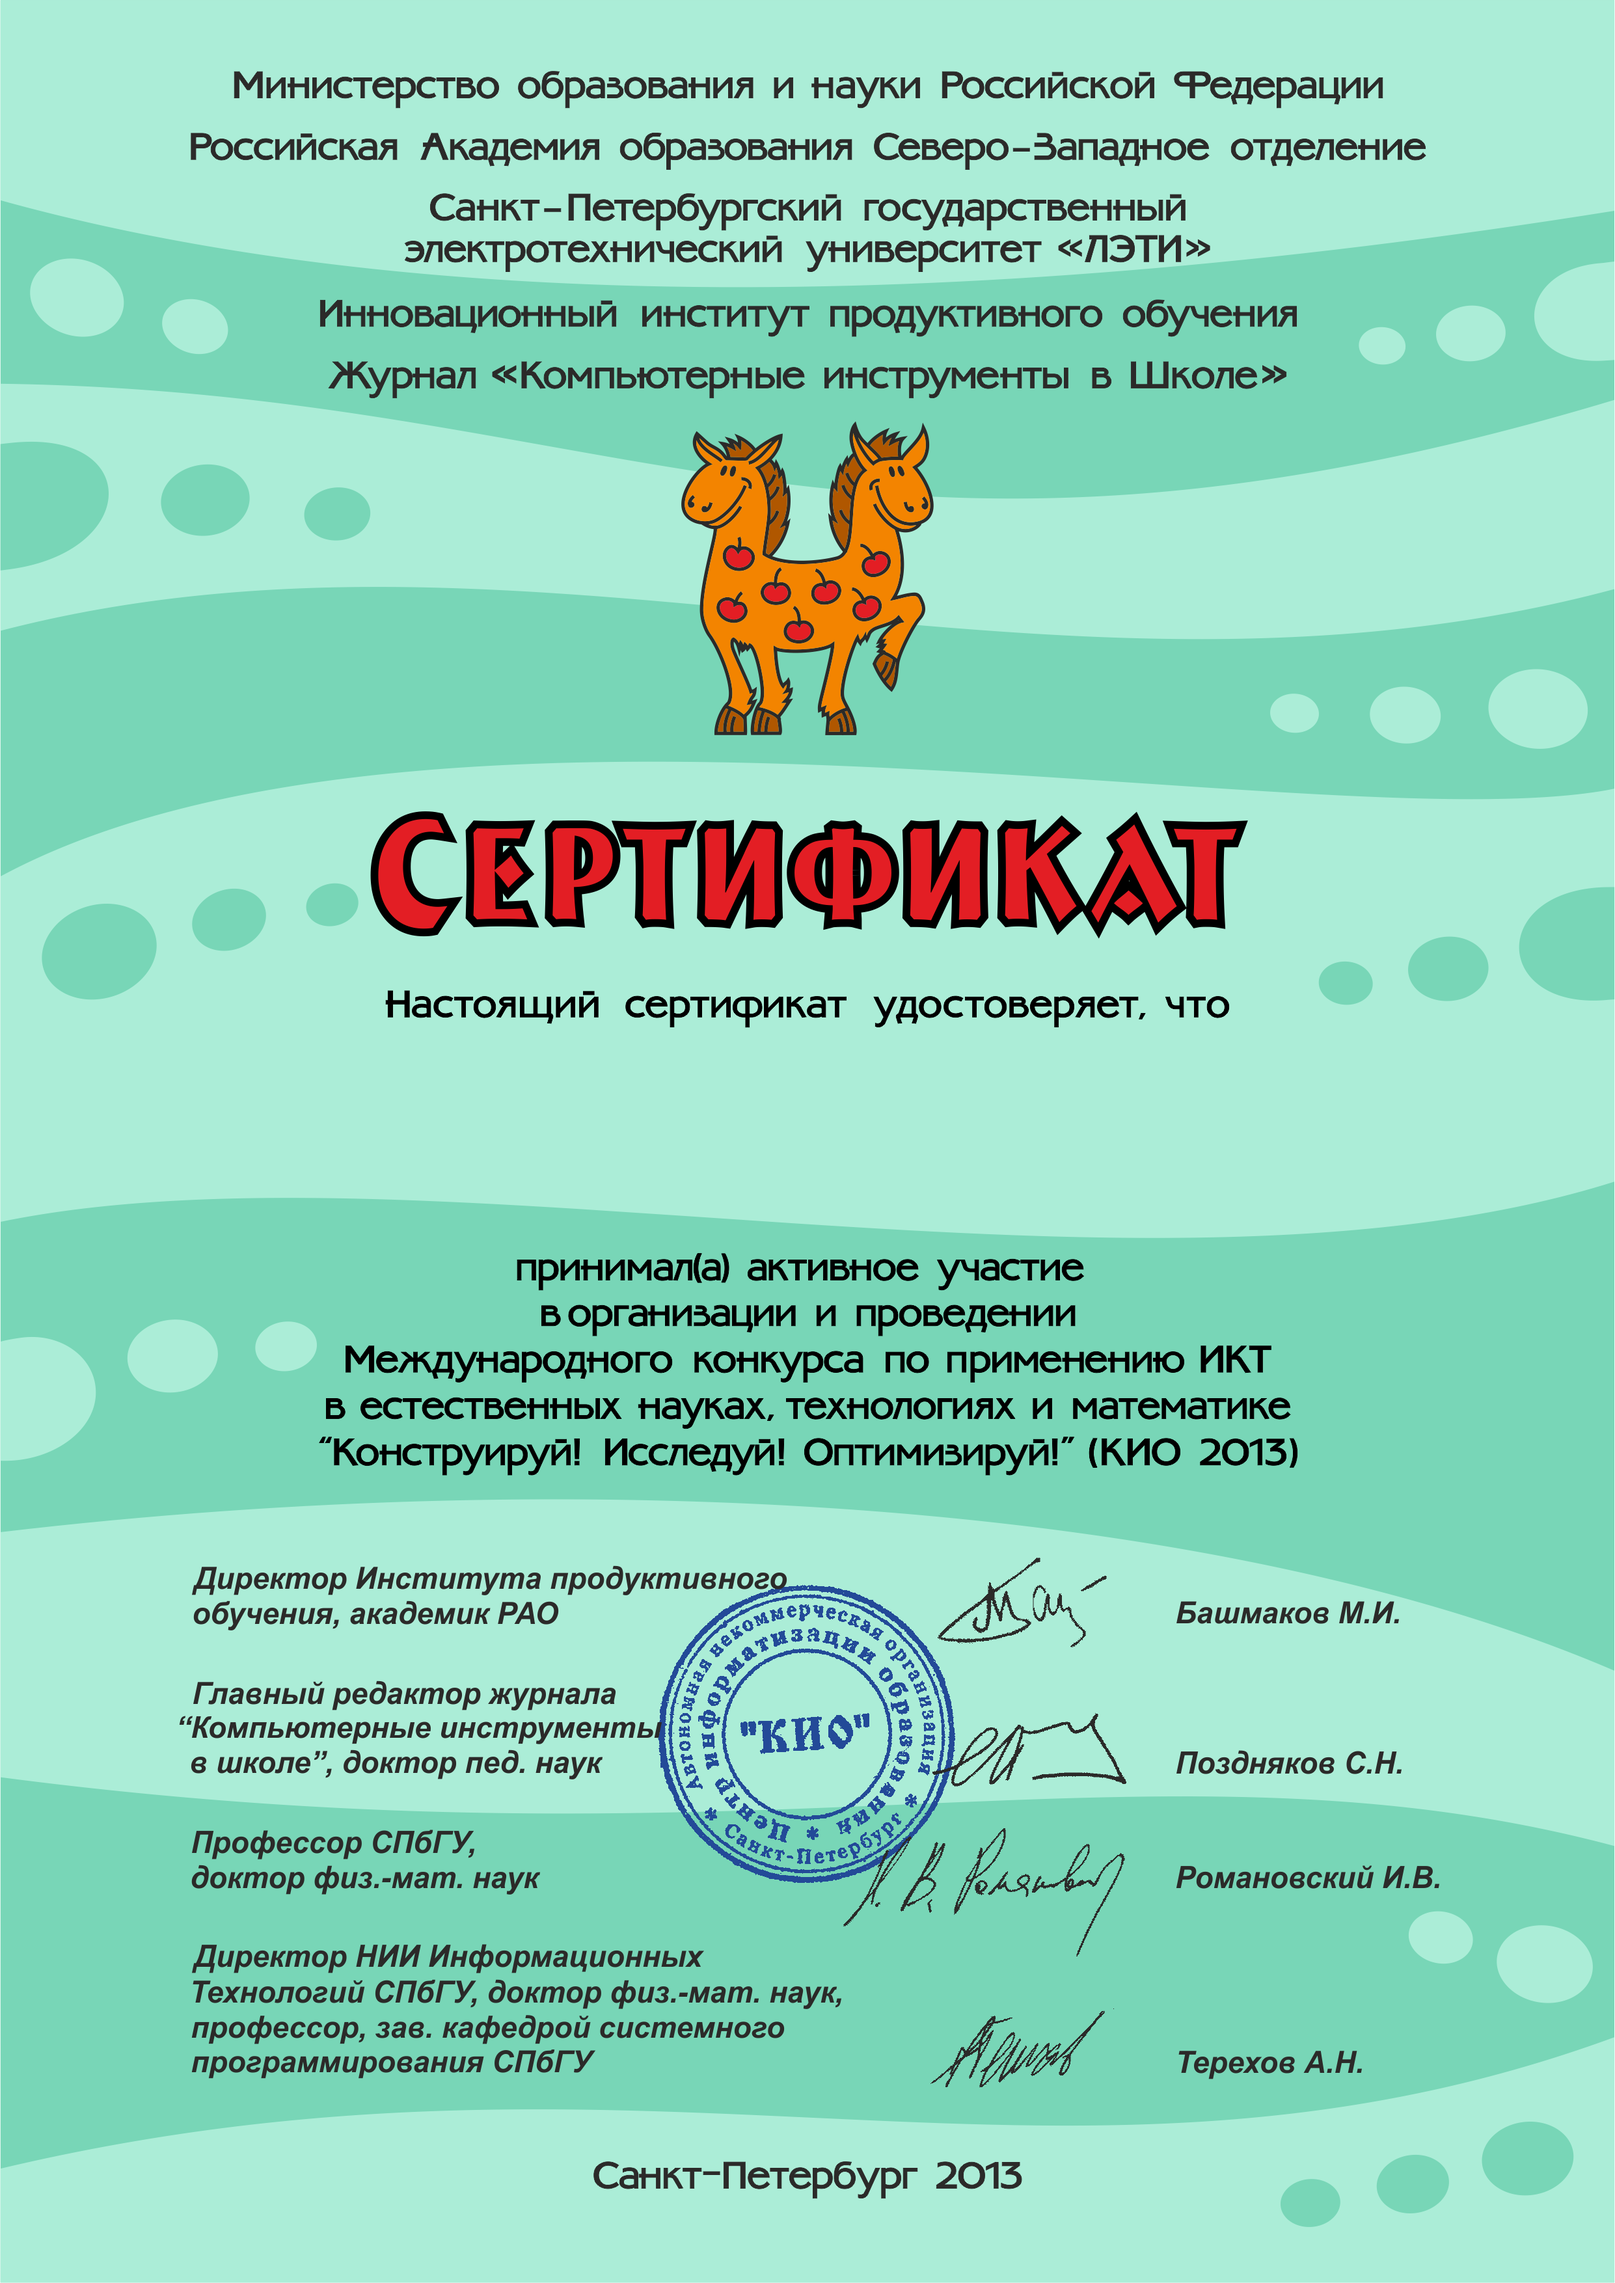
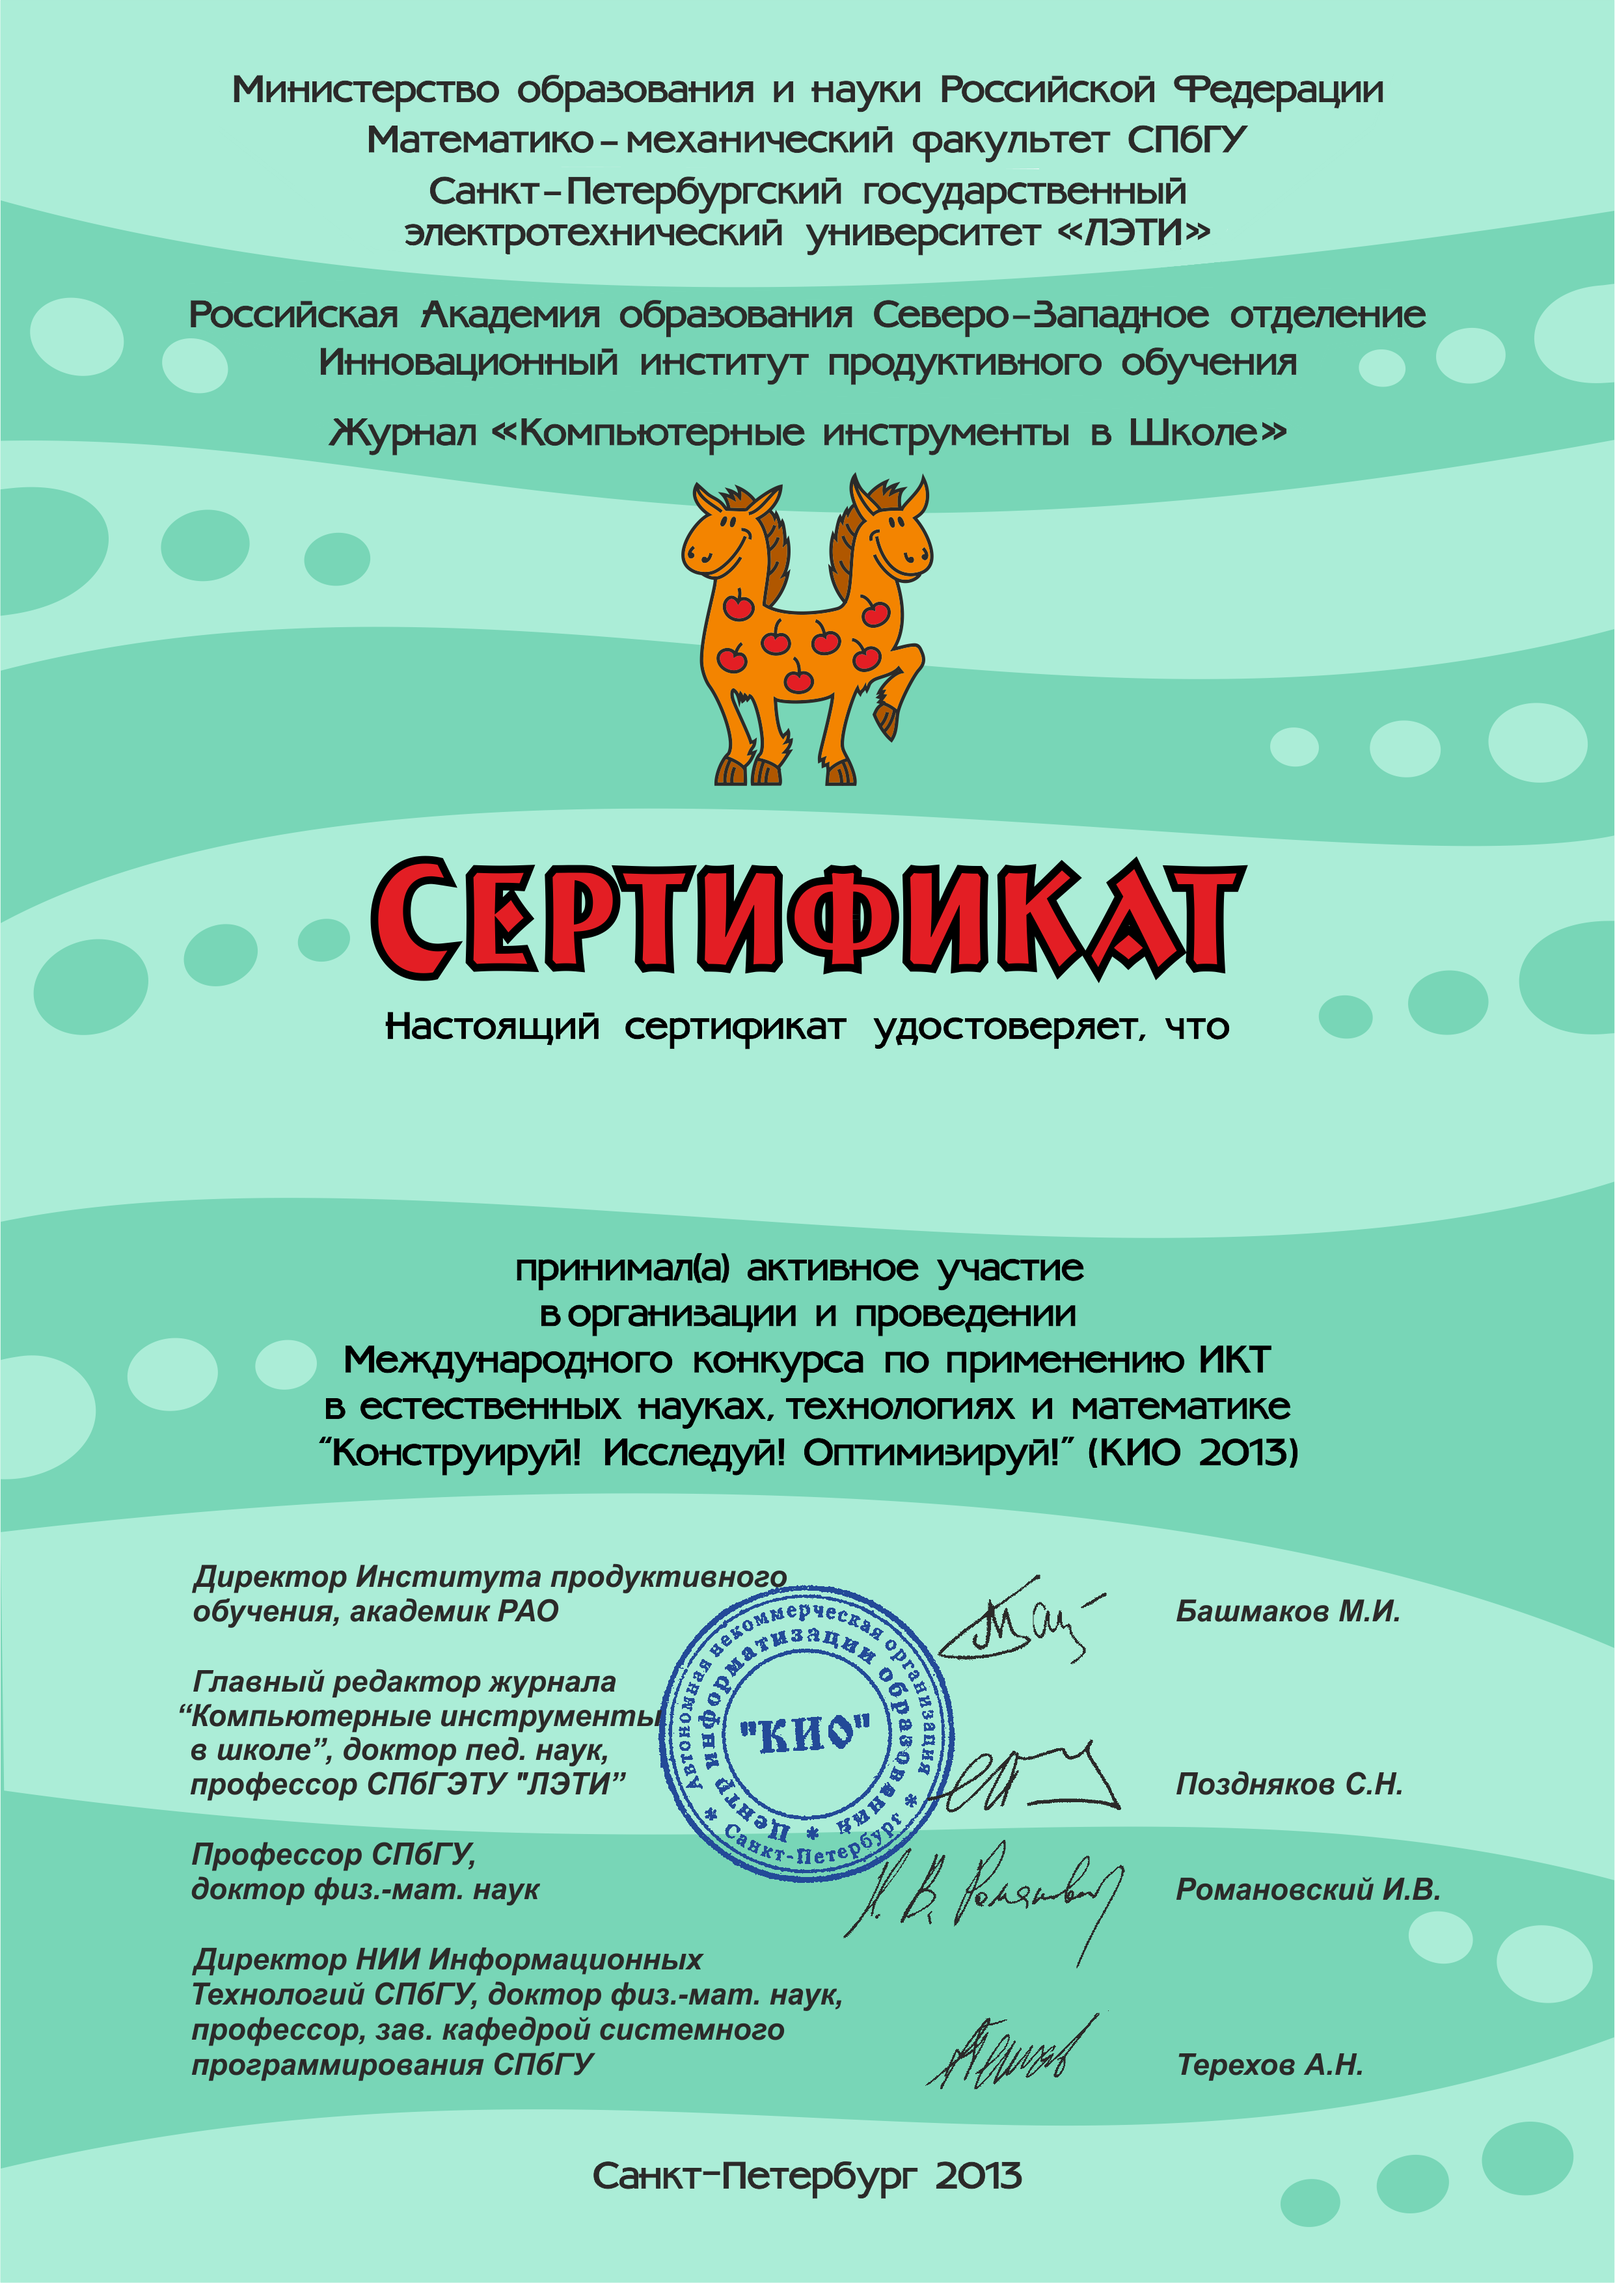
fix teachers sertificates

diff --git a/CertificateCorrector/src/ru/ipo/kio/certificate/A.java b/CertificateCorrector/src/ru/ipo/kio/certificate/A.java
@@ -1,0 +1,39 @@
+package ru.ipo.kio.certificate;
+
+/**
+ * Created with IntelliJ IDEA.
+ * User: ilya
+ * Date: 23.05.13
+ * Time: 10:35
+ */
+public class A {
+
+    public static void main(String[] args) {
+        int N = 10;
+        int num = pow(3, N);
+        int aaa = 0;
+        int abc = 0;
+        for (int x = 0; x < num; x++) {
+            String s = Integer.toString(x, 3);
+            while (s.length() < N)
+                s = "0" + s;
+
+            if (s.contains("000"))
+                aaa++;
+            if (s.contains("012"))
+                abc++;
+        }
+
+        System.out.println(num);
+        System.out.println(aaa);
+        System.out.println(abc);
+    }
+
+    public static int pow(int a, int deg) {
+        int res = 1;
+        for (int i = 0; i < deg; i++)
+            res *= a;
+        return res;
+    }
+
+}
